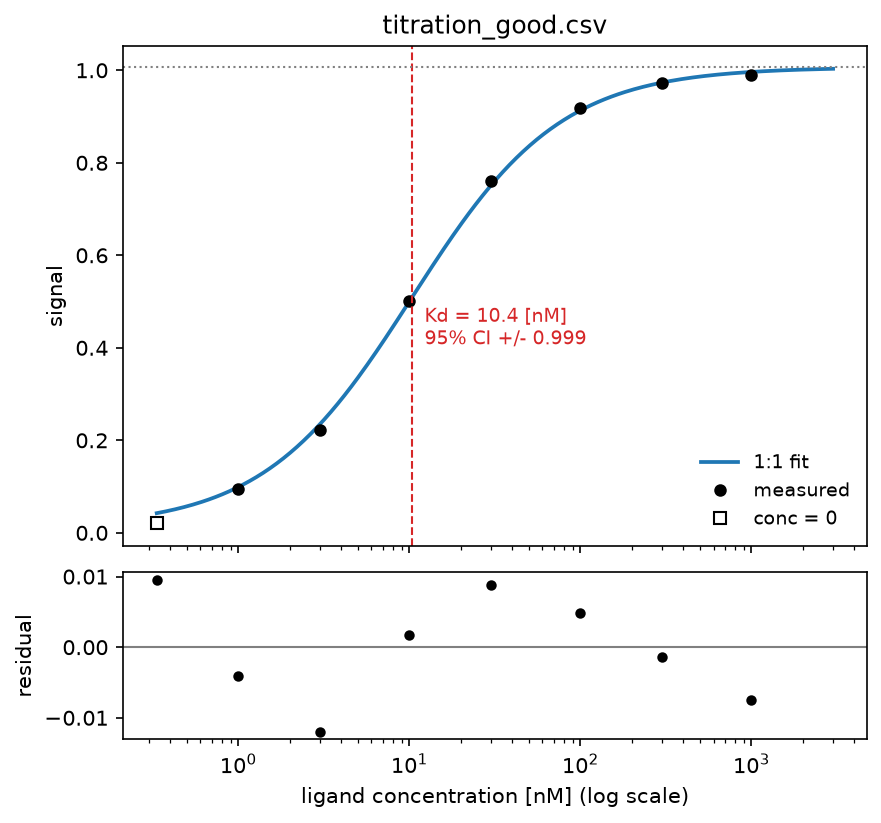
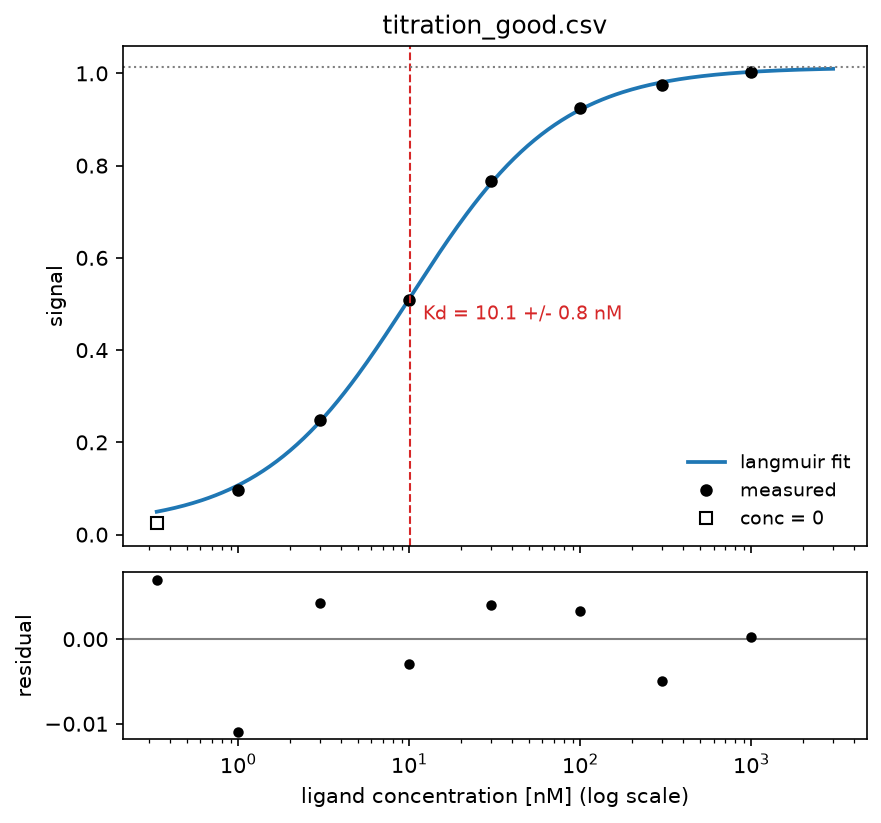
chore: regenerate datasets and plotting with reproducible script

diff --git a/scripts/make_examples.py b/scripts/make_examples.py
@@ -1,0 +1,86 @@
+"""Regenerate the example datasets and the figure in the README.
+
+The example CSVs used to be typed by hand, which made the "good" one inconsistent with
+the model it was supposed to illustrate: a Hill fit put the coefficient at 1.076 with an
+interval excluding 1, so the file that demonstrates a clean 1:1 titration was in fact
+evidence of cooperativity. Generating them from the model with a fixed seed keeps the
+examples honest and reproducible.
+
+    uv run python scripts/make_examples.py
+"""
+
+from __future__ import annotations
+
+import subprocess
+import sys
+from pathlib import Path
+
+import numpy as np
+
+from bindfit import langmuir
+
+EXAMPLES = Path(__file__).resolve().parent.parent / "examples"
+
+# よく条件づけられた滴定: Kd を挟んで 1/10 から 100 倍まで測る。
+GOOD = {
+    "path": EXAMPLES / "titration_good.csv",
+    "conc": np.array([0.0, 1.0, 3.0, 10.0, 30.0, 100.0, 300.0, 1000.0]),
+    "kd": 10.0,
+    "bmax": 1.0,
+    "baseline": 0.02,
+    "noise": 0.01,
+    "seed": 20260810,
+}
+
+# 飽和に達していない滴定: 最高濃度が Kd の 1/3 しかない。決定係数は高いのに Kd の
+# 信頼区間は広く、片側が決まらないこともある、という例。
+UNSATURATED = {
+    "path": EXAMPLES / "titration_unsaturated.csv",
+    "conc": np.array([0.0, 1.0, 3.0, 10.0, 30.0, 100.0]),
+    "kd": 300.0,
+    "bmax": 1.0,
+    "baseline": 0.02,
+    "noise": 0.01,
+    "seed": 20260811,
+}
+
+
+def write(spec: dict) -> Path:
+    conc = spec["conc"]
+    signal = langmuir(conc, spec["kd"], spec["bmax"], spec["baseline"])
+    signal = signal + np.random.default_rng(spec["seed"]).normal(0.0, spec["noise"], conc.size)
+
+    path: Path = spec["path"]
+    lines = [
+        "# Synthetic data, not from any publication. Regenerate with scripts/make_examples.py",
+        f"# langmuir: Kd={spec['kd']:g} nM, Bmax={spec['bmax']:g}, baseline={spec['baseline']:g}, "
+        f"gaussian noise sd={spec['noise']:g}, seed={spec['seed']}",
+        "concentration_nM,signal",
+    ]
+    lines += [f"{c:g},{s:.4f}" for c, s in zip(conc, signal, strict=True)]
+    path.write_text("\n".join(lines) + "\n", encoding="utf-8")
+    return path
+
+
+def main() -> int:
+    for spec in (GOOD, UNSATURATED):
+        print(f"wrote {write(spec)}")
+
+    figure = EXAMPLES / "fit_good.png"
+    completed = subprocess.run(  # noqa: S603
+        [
+            sys.executable,
+            str(EXAMPLES / "plot_fit.py"),
+            str(GOOD["path"]),
+            "--unit",
+            "nM",
+            "--out",
+            str(figure),
+        ],
+        check=False,
+    )
+    return completed.returncode
+
+
+if __name__ == "__main__":
+    raise SystemExit(main())

diff --git a/tests/test_examples.py b/tests/test_examples.py
@@ -88,3 +88,57 @@ def test_sample_main_accepts_every_model(sample, tmp_path):
         out = tmp_path / f"{name}.png"
         assert sample.main([str(EXAMPLES / "titration_good.csv"), "--model", name, "--out", str(out)]) == 0
         assert out.exists()
+
+
+# ------------------------------- 例データが例として妥当であること
+
+
+def test_example_files_declare_that_they_are_synthetic():
+    """論文由来と誤解されないよう、由来をファイル内に書いておく。"""
+    for name in ("titration_good.csv", "titration_unsaturated.csv"):
+        text = (EXAMPLES / name).read_text(encoding="utf-8")
+        assert "not from any publication" in text, name
+        assert "make_examples.py" in text, name
+        assert "seed=" in text, name
+
+
+def test_good_example_is_consistent_with_the_model_it_illustrates():
+    """「良いデータ」が協同性ありと判定されるようでは例にならない。"""
+    from bindfit import fit, hill, load_csv
+
+    conc, signal = load_csv(EXAMPLES / "titration_good.csv")
+    res = fit(conc, signal, ci="profile")
+    assert res.warnings == (), res.warnings
+    assert res.r_squared > 0.999
+
+    cooperative = fit(conc, signal, model=hill, ci="profile")
+    assert cooperative.intervals["n"].contains(1.0)
+    assert res.aicc < cooperative.aicc  # 余分なパラメータは支持されない
+
+
+def test_unsaturated_example_still_shows_an_undetermined_limit():
+    from bindfit import fit, load_csv
+
+    conc, signal = load_csv(EXAMPLES / "titration_unsaturated.csv")
+    res = fit(conc, signal, ci="profile")
+    assert res.r_squared > 0.99  # 当てはまりは良く見える
+    assert res.intervals["kd"].upper is None  # それでも上限は決まらない
+    assert any("飽和に達しておらず" in w for w in res.warnings)
+
+
+def test_examples_can_be_regenerated_reproducibly(tmp_path, monkeypatch):
+    """スクリプトを 2 回走らせても同じ内容になること。"""
+    import importlib.util
+
+    spec = importlib.util.spec_from_file_location(
+        "sample_make_examples", EXAMPLES.parent / "scripts" / "make_examples.py"
+    )
+    assert spec is not None and spec.loader is not None
+    module = importlib.util.module_from_spec(spec)
+    sys.modules[spec.name] = module
+    spec.loader.exec_module(module)
+
+    original = (EXAMPLES / "titration_good.csv").read_text(encoding="utf-8")
+    monkeypatch.setitem(module.GOOD, "path", tmp_path / "again.csv")
+    module.write(module.GOOD)
+    assert (tmp_path / "again.csv").read_text(encoding="utf-8") == original
